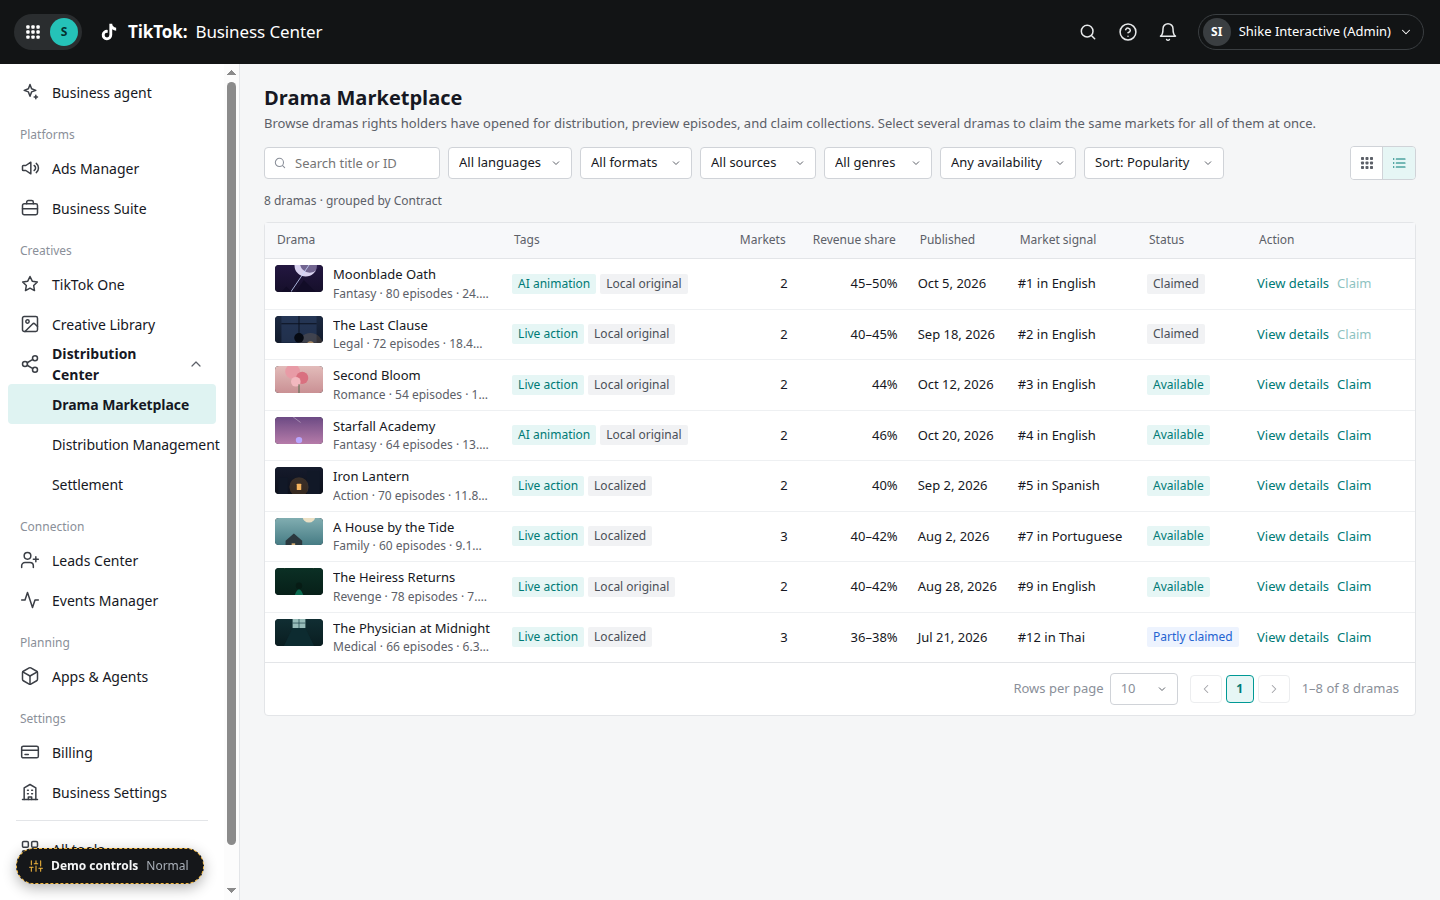
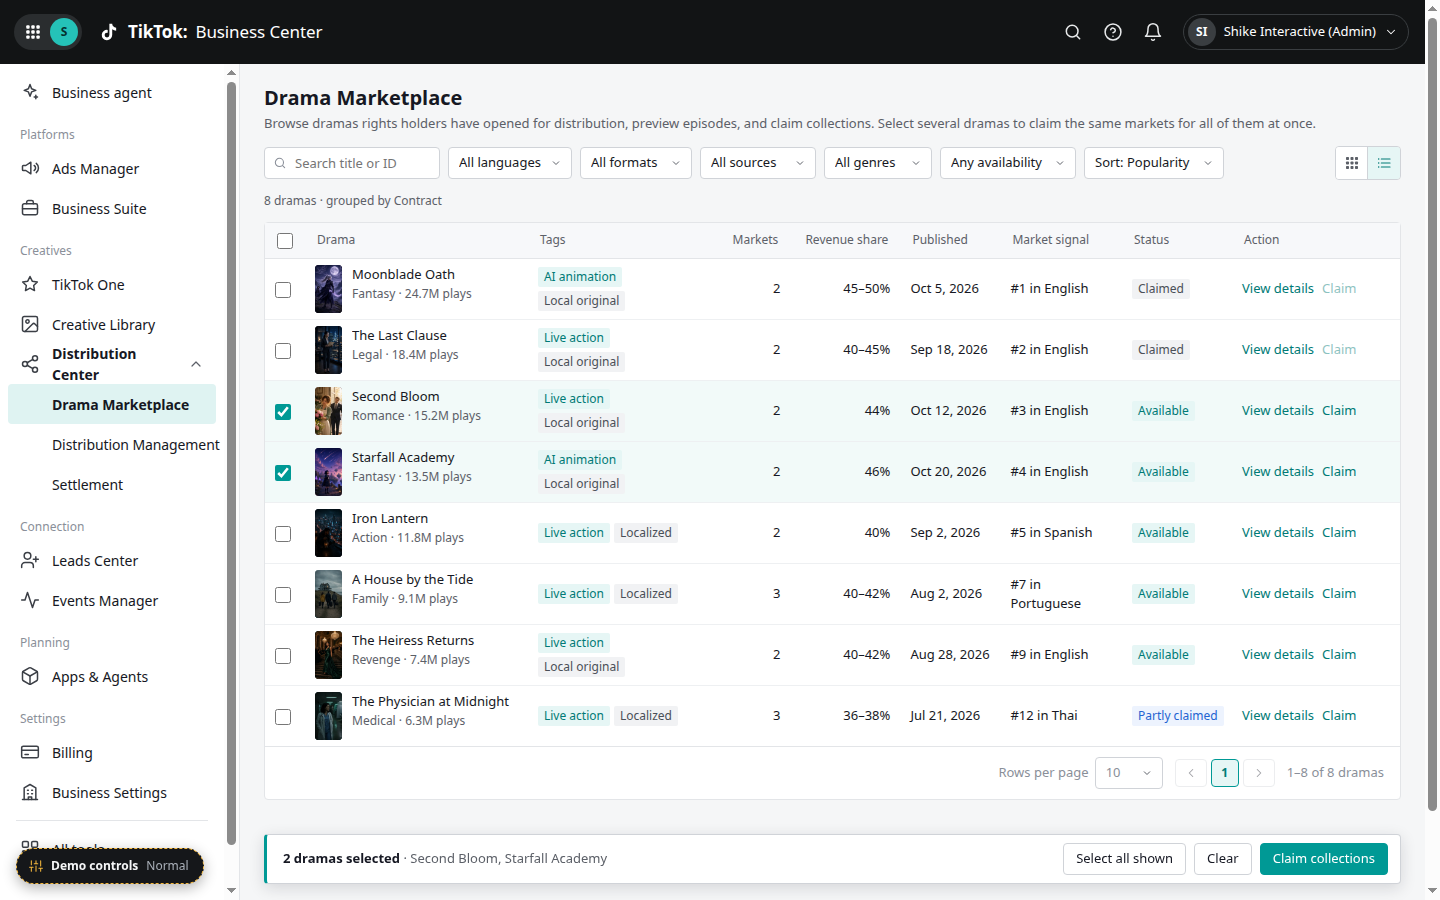
Sync prototype: Marketplace list bulk claim and 9:16 thumbs
Drop episode count from the card body meta so it only lives on the cover overlay. List rows use 9:16 cover thumbs, row checkboxes, and the same bulk-claim bar as cards.

diff --git a/index.html b/index.html
@@ -113,7 +113,7 @@ button,input,select{font:inherit;color:inherit}
 .tbl td.act .btn-link{display:inline-flex;justify-content:flex-start}
 .tbl tr:has(.menu){position:relative;z-index:5}
 .thumb{width:32px;height:42px;border-radius:4px;overflow:hidden;flex:none;background:#1d2329;position:relative}
-.thumb .poster,.thumb svg.poster{position:absolute;inset:0;width:100%;height:100%;display:block}
+.thumb .poster,.thumb svg.poster,.thumb img{position:absolute;inset:0;width:100%;height:100%;display:block;object-fit:cover}
 .drama-cell{display:flex;gap:10px;align-items:flex-start;min-width:0}
 .drama-cell .meta{min-width:0;flex:1}
 .dist-url{color:var(--primary-t);font-family:var(--mono);font-size:12px;overflow:hidden;text-overflow:ellipsis;white-space:nowrap;max-width:100%;background:none;border:0;padding:0;cursor:pointer;text-align:left;display:block}
@@ -242,7 +242,7 @@ button.kpi.on{box-shadow:inset 0 -2px 0 var(--primary)}
 .card-meta{font-size:12px;color:var(--text3);line-height:18px}
 .card-f{padding:7px 12px;border-top:1px solid var(--row);display:flex;align-items:center;min-height:31px;font-size:12px}
 .mk-count{font-size:12px;color:var(--text2)}
-.thumb.wide{width:48px;height:27px}
+.thumb.portrait{width:27px;height:48px}
 
 /* Drawer & modal */
 .mask{position:fixed;inset:0;background:rgba(22,24,35,.45);z-index:100;opacity:0;transition:opacity .15s}
@@ -1054,9 +1054,11 @@ function mkList(list){
   const page = Math.min(Math.max(1, UI.mk.page || 1), pages);
   if (UI.mk.page !== page) UI.mk.page = page;
   const rows = list.slice((page - 1) * size, page * size);
+  const allOn = rows.length && rows.every(c => UI.pick.has(c.id));
   const head = `<thead><tr>
+    <th style="width:40px"><input type="checkbox" class="cb" name="mk-page" data-act="pick-page" ${allOn ? 'checked' : ''} aria-label="Select all on this page"></th>
     <th style="width:22%">Drama</th>
-    <th style="width:20%">Tags</th>
+    <th style="width:18%">Tags</th>
     <th class="num" style="width:80px">Markets</th>
     <th class="num" style="width:110px">Revenue share</th>
     <th style="width:100px">Published</th>
@@ -1066,8 +1068,10 @@ function mkList(list){
   </tr></thead>`;
   const body = rows.map(c => {
     const st = mkStats(c);
-    return `<tr class="clickable" data-act="open-drama" data-id="${c.id}">
-      <td><div class="drama-cell"><div class="thumb wide">${poster(c.id)}</div><div class="meta"><div class="cell-title ell" title="${esc(c.title)}">${c.title}</div><div class="cell-sub ell">${esc(st.genre)} · ${c.episodes} episodes · ${esc(c.plays)} plays</div></div></div></td>
+    const on = UI.pick.has(c.id);
+    return `<tr class="clickable ${on ? 'sel' : ''}" data-act="open-drama" data-id="${c.id}">
+      <td><input type="checkbox" class="cb" name="pick-${c.id}" data-chg="mk-pick" data-id="${c.id}" ${on ? 'checked' : ''} aria-label="Select ${esc(c.title)}"></td>
+      <td><div class="drama-cell"><div class="thumb portrait">${poster(c.id)}<img src="${frameSrc(c.id, 1)}" alt="" loading="lazy" decoding="async"></div><div class="meta"><div class="cell-title ell" title="${esc(c.title)}">${c.title}</div><div class="cell-sub ell">${esc(st.genre)} · ${esc(c.plays)} plays</div></div></div></td>
       <td><div class="tags"><span class="tag teal">${esc(c.format)}</span><span class="tag">${esc(c.source)}</span></div></td>
       <td class="num">${st.n}</td>
       <td class="num">${st.share}</td>
@@ -1122,7 +1126,7 @@ function pageMarketplace(){
   const listView = f.view === 'list';
   if (st === 'loading'){
     out += listView
-      ? `<div class="panel"><div class="tbl-wrap"><table class="tbl"><thead><tr><th>Drama</th><th>Tags</th><th>Markets</th><th>Revenue share</th><th>Published</th><th>Market signal</th><th>Status</th><th>Action</th></tr></thead><tbody>${skelRows(6, 8)}</tbody></table></div></div>`
+      ? `<div class="panel"><div class="tbl-wrap"><table class="tbl"><thead><tr><th></th><th>Drama</th><th>Tags</th><th>Markets</th><th>Revenue share</th><th>Published</th><th>Market signal</th><th>Status</th><th>Action</th></tr></thead><tbody>${skelRows(6, 9)}</tbody></table></div></div>`
       : '<div class="grid">' + Array.from({length:4}, () => '<div class="card" style="cursor:default"><div class="poster-box sk" style="border-radius:0"></div><div class="card-b"><div class="sk" style="height:14px;width:70%"></div><div class="sk" style="height:10px;width:50%"></div><div class="sk" style="height:10px;width:85%"></div></div></div>').join('') + '</div>';
   } else if (st === 'error'){
     out += errorBlock('dramas');
@@ -1131,7 +1135,7 @@ function pageMarketplace(){
   } else {
     const list = mkFiltered();
     const pk = UI.pick.size;
-    out += `<div class="mk-count">${plural(list.length, 'drama')} · grouped by Contract${listView || pk ? '' : ' · tick the box on a poster to claim several dramas at once'}</div>`;
+    out += `<div class="mk-count">${plural(list.length, 'drama')} · grouped by Contract${pk ? '' : ' · tick the box to claim several dramas at once'}</div>`;
     if (!list.length) out += '<div class="panel">' + emptyBlock('search', 'No dramas match your filters', 'Try a different keyword or clear filters.', '<button class="btn" data-act="mk-clear">Clear filters</button>') + '</div>';
     else out += listView ? mkList(list) : '<div class="grid">' + list.map(card).join('') + '</div>';
     if (pk){
@@ -1151,7 +1155,7 @@ function card(c){
   const on = UI.pick.has(c.id);
   const markets = Array.from(new Set(colsOf(c.id).map(x => x.code))).join(', ');
   const ovMeta = `${c.episodes} episodes · ${c.plays} plays`;
-  const meta = `${c.episodes} eps · ${c.launchL} · ${markets}`;
+  const meta = `${c.launchL} · ${markets}`;
   return `<div class="card ${on ? 'picked' : ''}" role="button" tabindex="0" data-act="open-drama" data-id="${c.id}" aria-label="${esc(c.title)}">
     ${cover(c.id)}
       <div class="ov-tl"><label class="card-pick" title="Select for bulk claim"><input type="checkbox" class="cb" name="pick-${c.id}" data-chg="mk-pick" data-id="${c.id}" ${on ? 'checked' : ''} aria-label="Select ${esc(c.title)}"></label></div>
@@ -1161,7 +1165,7 @@ function card(c){
       <div class="card-t ell" title="${esc(c.title)}">${c.title}</div>
       <div class="tags">${c.genres.map(g => '<span class="tag">' + g + '</span>').join('')}</div>
       <div class="card-m ell" title="${esc(c.holder + ' · ' + c.source)}">${c.holder} · ${c.source}</div>
-      <div class="card-meta ell" title="${esc(c.episodes + ' episodes · launched ' + c.launchL + ' · markets ' + markets)}">${meta}</div>
+      <div class="card-meta ell" title="${esc('launched ' + c.launchL + ' · markets ' + markets)}">${meta}</div>
     </div>
     <div class="card-f">${claimSummary(c.id)}</div></div>`;
 }
@@ -2187,6 +2191,17 @@ const ACT = {
   'bulk-claim': () => { if (!UI.pick.size){ toast('Select at least one drama.', 'warn'); return; } openClaimFlow(CONTRACTS.map(c => c.id).filter(id => UI.pick.has(id)), []); },
   'pick-clear': () => { UI.pick.clear(); render(); },
   'pick-all': () => { mkFiltered().forEach(c => UI.pick.add(c.id)); render(); },
+  'pick-page': (el, e) => {
+    if (e) e.stopPropagation();
+    const list = mkFiltered();
+    const size = UI.mk.size || 10;
+    const pages = Math.max(1, Math.ceil(list.length / size));
+    const page = Math.min(Math.max(1, UI.mk.page || 1), pages);
+    const rows = list.slice((page - 1) * size, page * size);
+    const allOn = rows.length && rows.every(c => UI.pick.has(c.id));
+    rows.forEach(c => allOn ? UI.pick.delete(c.id) : UI.pick.add(c.id));
+    render();
+  },
   'cf-submit': el => {
     if (!CF.keys.size){ toast('Pick at least one market.', 'warn'); return; }
     const items = [].concat(...claimPlan().map(p => p.items.filter(i => i.act === 'claim' || i.act === 'link')));
